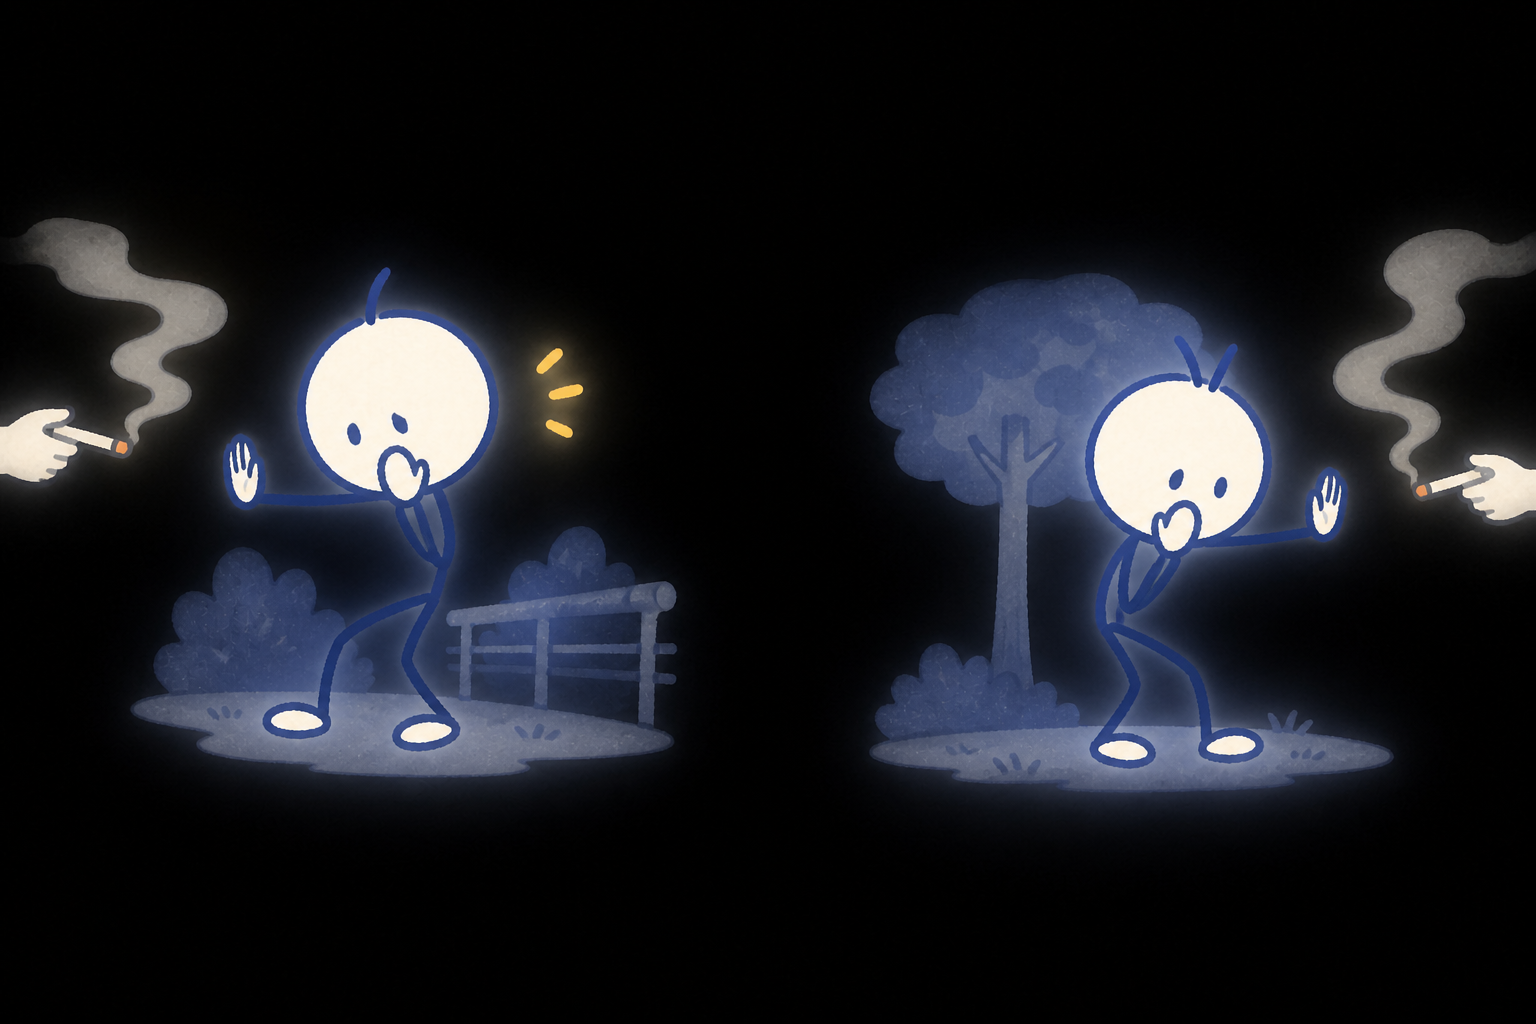
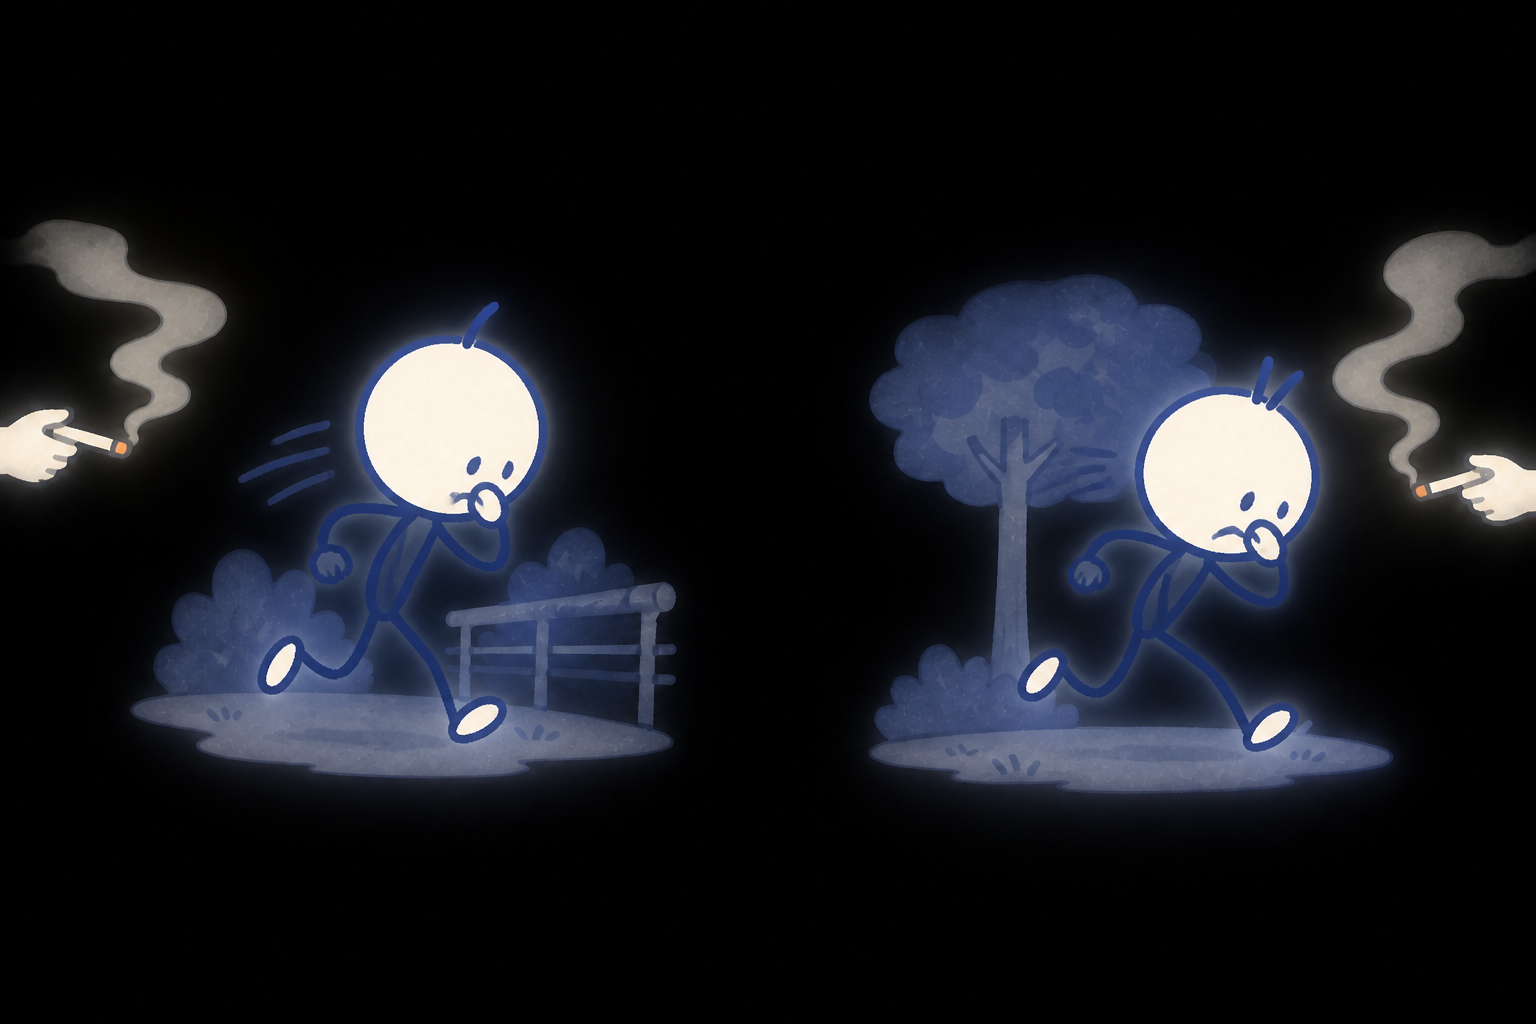
Refine smoke and Douyin comics

Changed region(s): [[0.125, 0.25, 0.4062, 0.75], [0.6562, 0.2812, 0.9062, 0.75], [0.0312, 0.4062, 0.0625, 0.4375]]

diff --git a/src/content/letter.ts b/src/content/letter.ts
@@ -108,13 +108,13 @@ export const letterContent = {
         id: "smoke",
         label: "讨厌二手烟",
         image: "/images/resonance/smoke.png",
-        alt: "两个火柴人在不同地点，各自躲开从画外飘来的香烟烟雾",
+        alt: "两个火柴人在不同地点捂住鼻子，快速跑离画外飘来的香烟烟雾",
       },
       {
         id: "douyin",
         label: "讨厌抖音",
         image: "/images/resonance/offline.png",
-        alt: "两个火柴人在不同房间各自推开手机，中央写着 NO 并有禁用的短视频图标",
+        alt: "两个火柴人处在不同房间，中央是嵌套禁止标识的抖音图标",
       },
       {
         id: "night",
